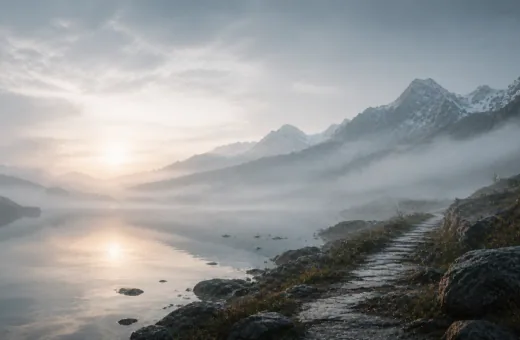
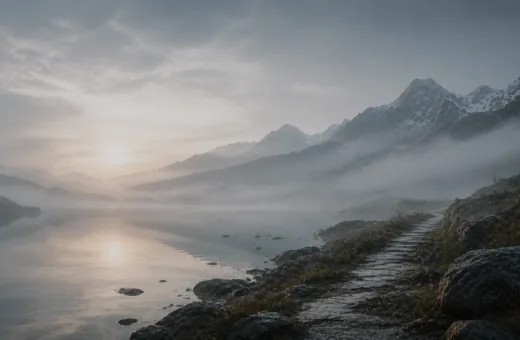
perf(atendimentos): bake the tone into the panes instead of filtering at paint
O escurecimento das vidraças vinha de `filter: saturate(.82) brightness(.86)`
no CSS, refeito a cada pintura sobre quase meio milhão de pixels de imagem.
Assado no arquivo pelo sharp, dá a mesma imagem e ganha duas vezes:
dessaturar e escurecer reduzem a entropia, então os quatro arquivos caem de
109,8 KB para 97,2 KB — e o custo de pintura desaparece junto.

O `filter` também saiu da lista de transição. Ele não é propriedade de
compositor: animá-lo obrigava a refiltrar 162 mil pixels na vidraça grande a
cada quadro dos 500ms. Sobra `transform`, que o compositor resolve sozinho — o
clareamento no hover era firula e não vale esse preço.

As duas vidraças de baixo ganham `fetchpriority="high"`: medidas a 1440×900,
elas ficam inteiramente acima da dobra e são os dois maiores elementos do
primeiro quadro, ou seja, as candidatas a LCP.

Os tetos de peso apertam para ~1,4× do real. Frouxos, deixariam a volta do
escurecimento para o CSS devolver 15 KB sem que nada acusasse.

Medições que NÃO viraram mudança: paralelizar as quatro gerações economiza
~150ms num script rodado à mão, e mover esta folha para secoes.css seria
estritamente pior — as duas hoje começam juntas aos 96ms, e dobrar levaria
6 KB exclusivos desta página para as outras onze, atrás da cadeia de @import.

diff --git a/outputs/atendimentos.html b/outputs/atendimentos.html
@@ -47,7 +47,7 @@
           </li>
           <li class="atend-vidraca">
             <a href="#online">
-              <img src="media/atendimentos-vidraca-3.webp" alt="" width="520" height="660" decoding="async">
+              <img src="media/atendimentos-vidraca-3.webp" alt="" width="520" height="660" fetchpriority="high" decoding="async">
               <span class="atend-vidraca-texto">
                 <span class="atend-vidraca-num" aria-hidden="true">03</span>
                 Quero atendimento online
@@ -56,7 +56,7 @@
           </li>
           <li class="atend-vidraca">
             <a href="#caminhos">
-              <img src="media/atendimentos-vidraca-4.webp" alt="" width="520" height="660" decoding="async">
+              <img src="media/atendimentos-vidraca-4.webp" alt="" width="520" height="660" fetchpriority="high" decoding="async">
               <span class="atend-vidraca-texto">
                 <span class="atend-vidraca-num" aria-hidden="true">04</span>
                 Não sei qual técnica escolher

diff --git a/outputs/css/atendimentos.css b/outputs/css/atendimentos.css
@@ -64,11 +64,11 @@
   width: 100%;
   height: 100%;
   object-fit: cover;
-  /* A imagem cede contraste para o texto que vai por cima dela: sem isso o
-     rótulo some sobre a parte clara da paisagem, que é justamente onde ele
-     cai em três das quatro vidraças. */
-  filter: saturate(.82) brightness(.86);
-  transition: transform .7s cubic-bezier(.2, .72, .2, 1), filter .5s ease;
+  /* Só `transform`, que o compositor resolve sozinho. O escurecimento que
+     antes vinha de `filter` foi assado no arquivo pelo script — e `filter` não
+     é propriedade de compositor, então animá-lo obrigava a refiltrar 162 mil
+     pixels na vidraça grande a cada quadro dos 500ms. */
+  transition: transform .7s cubic-bezier(.2, .72, .2, 1);
 }
 
 /*
@@ -109,7 +109,6 @@
 .atend-vidraca a:hover img,
 .atend-vidraca a:focus-visible img {
   transform: scale(1.04);
-  filter: saturate(.95) brightness(.95);
 }
 
 .atend-vidraca a:focus-visible {
